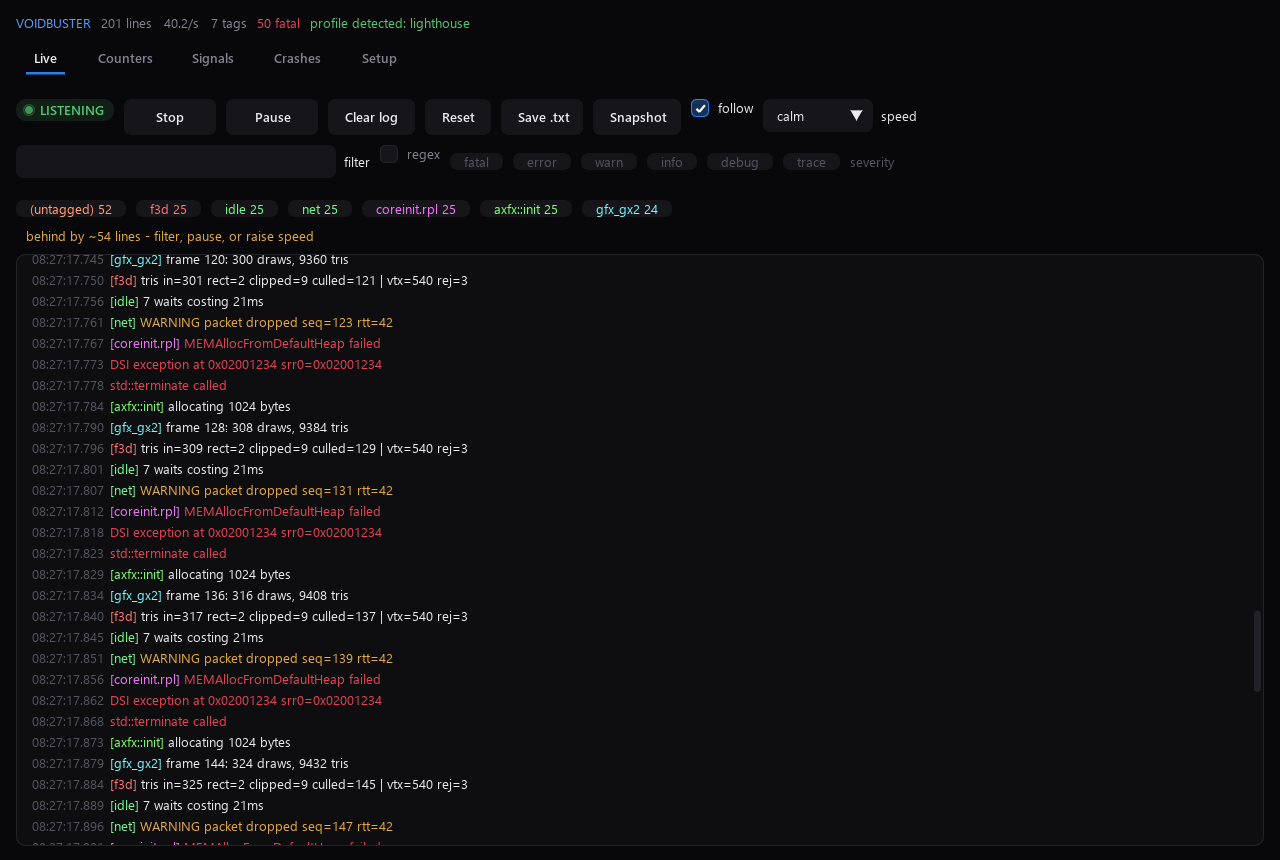
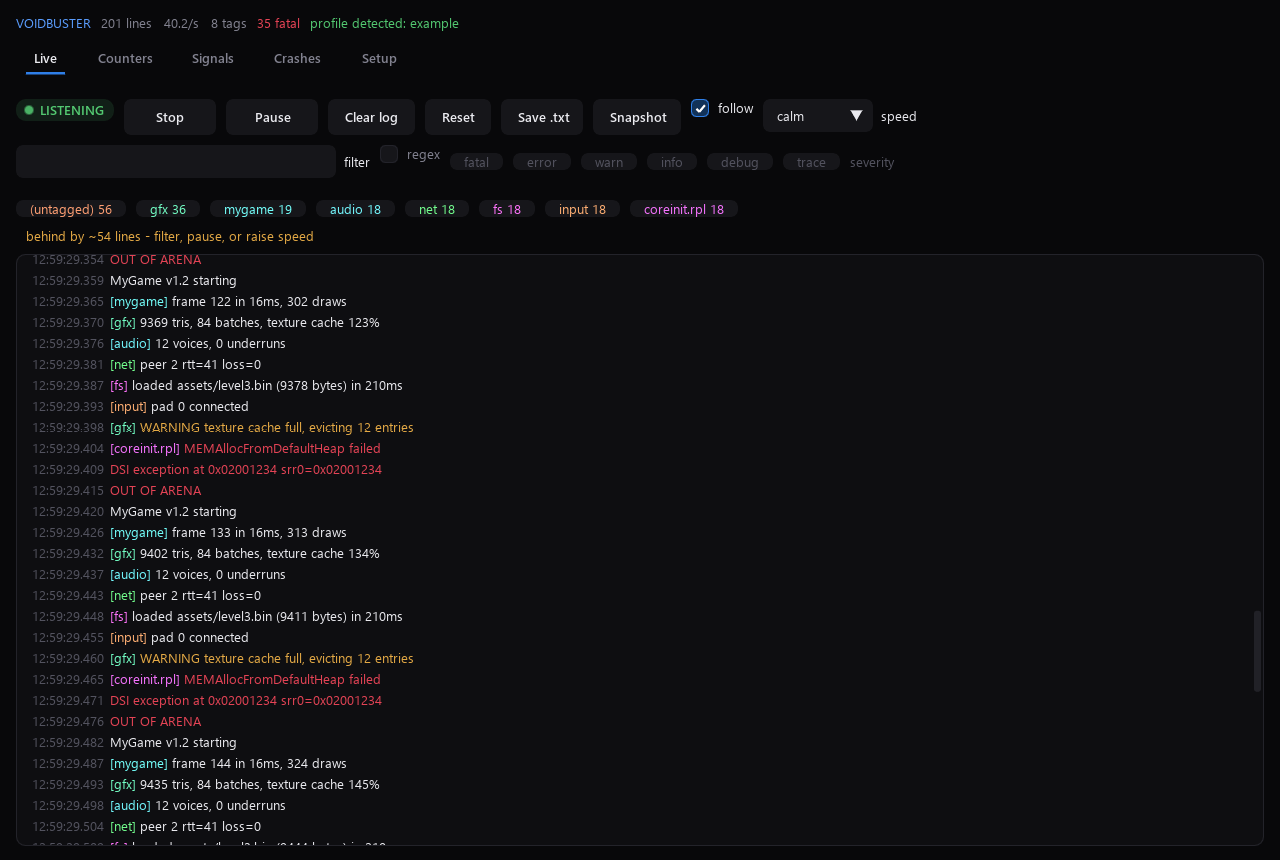
Stand on its own
Nothing here should read as a companion to another project. The opening now
says what the tool is rather than what it was a reaction to, the shipped
profile is a worked example of the format instead of one game's counters, and
the screenshots and sample dump use a fictional title.

Profiles matching profiles/*.local.json are ignored by git, so a profile for
your own game lives beside the tool without belonging to the repo.

diff --git a/voidbuster/parse.py b/voidbuster/parse.py
@@ -114,7 +114,7 @@ def split_tag(text):
     """Peel tags off the front of a line.
 
     Returns (tags, remainder). Several prefixes are consumed because
-    "[net][anchor] joined" carries two useful facets, and filtering on either
+    "[net][sync] joined" carries two useful facets, and filtering on either
     should find the line.
     """
     tags = []

diff --git a/voidbuster/__init__.py b/voidbuster/__init__.py
@@ -1,3 +1,3 @@
-"""voidbuster - a log viewer for any Wii U title, not one game's dashboard."""
+"""voidbuster - a log viewer for any Wii U title."""
 
 __version__ = "1.0.0"

diff --git a/README.md b/README.md
@@ -1,13 +1,15 @@
 # VoidBuster
 
-A log viewer for **any** Wii U title, rather than one game's dashboard.
+A log viewer for **any** Wii U title.
 
-The Lighthouse dashboard in `bk-wiiu/dashboard.py` parses four hardcoded
-regexes. Point it at a different game and the log still scrolls, but the
-counters stay empty and nothing is tagged, because nothing in that game emits
-`[gfx_gx2] frame N: ...`. This tool inverts that: the structure is derived from
-the text, so a game nobody has ever profiled still gets tags, severities,
-colours and live counters. Profiles then add precision on top, and are never
+Most console log tools are a wall of scrolling text, or a dashboard built
+around one game's output - a handful of regexes that match the title they were
+written for and nothing else. Point one at a different game and the log still
+scrolls, but the counters stay empty and nothing is tagged.
+
+VoidBuster inverts that. Structure is derived from the text itself, so a title
+nobody has ever profiled still gets tags, severity, colours and live counters
+the moment it says anything. Profiles add precision on top, and are never
 required.
 
 **[Download VoidBuster.exe](../../releases/latest)** - one file, no Python, no
@@ -40,7 +42,7 @@ before a freeze is not lost.
 
 ## What it derives, with no configuration
 
-- **Tags** from `[gfx]`, `[net][anchor]`, `AXFX::Init:` and `main.c:88:`
+- **Tags** from `[gfx]`, `[net][sync]`, `AXFX::Init:` and `main.c:88:`
   prefixes. Each gets a stable colour hashed from its name, so the same
   subsystem is the same colour in every session.
 - **Severity** from what the line says — `assertion failed` is fatal, `packet
@@ -158,9 +160,11 @@ games generally needs no input.
 
 Named capture groups become counters. `count` bumps a running total, `level`
 overrides the guessed severity, `alert` surfaces the line in the Signals tab,
-`watch` pins counters to the top of the table. `profiles/lighthouse.json`
-carries the Banjo-Kazooie counters across from the old dashboard, so a
-Lighthouse session looks the same in either tool.
+`watch` pins counters to the top of the table.
+
+`profiles/example.json` is a working one to copy. Drop your own into the
+`profiles/` folder beside the exe: a file there shadows a bundled one of the
+same name, so updating VoidBuster never overwrites your edits.
 
 ## Crashes
 
@@ -172,7 +176,7 @@ has changed between Aroma releases and homebrew writes its own variants.
 Addresses inside the RPX window (`0x02000000`–`0x10000000`) can be named:
 
 ```bash
-python voidbuster.py --read-crash crash_logs/dump.txt --elf ../bk-wiiu/Lighthouse/build-wiiu/lighthouse.elf
+python voidbuster.py --read-crash crash_logs/dump.txt --elf build/mygame.elf
 ```
 
 Anything in the `0x1nnnnnnn` or `0xe`/`0xf` ranges is an OS library and will not
